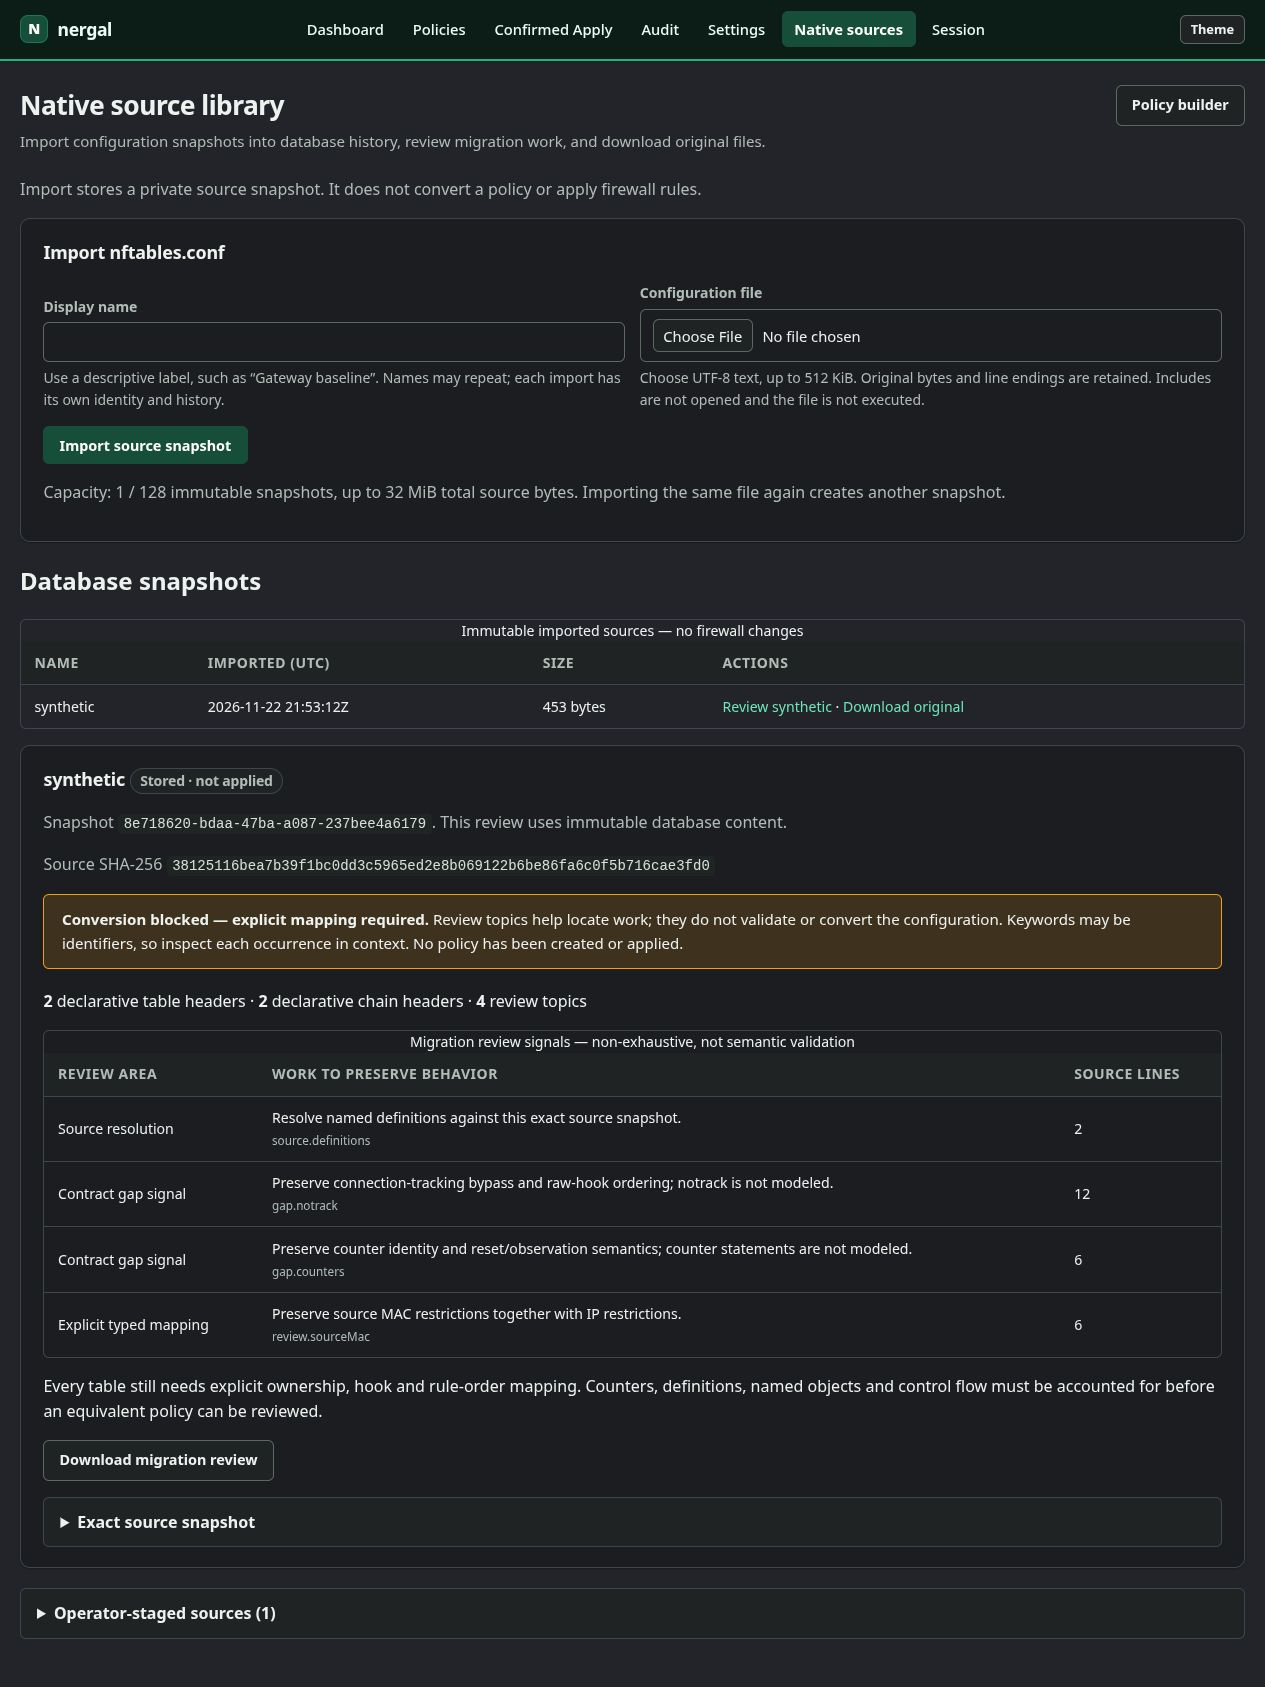
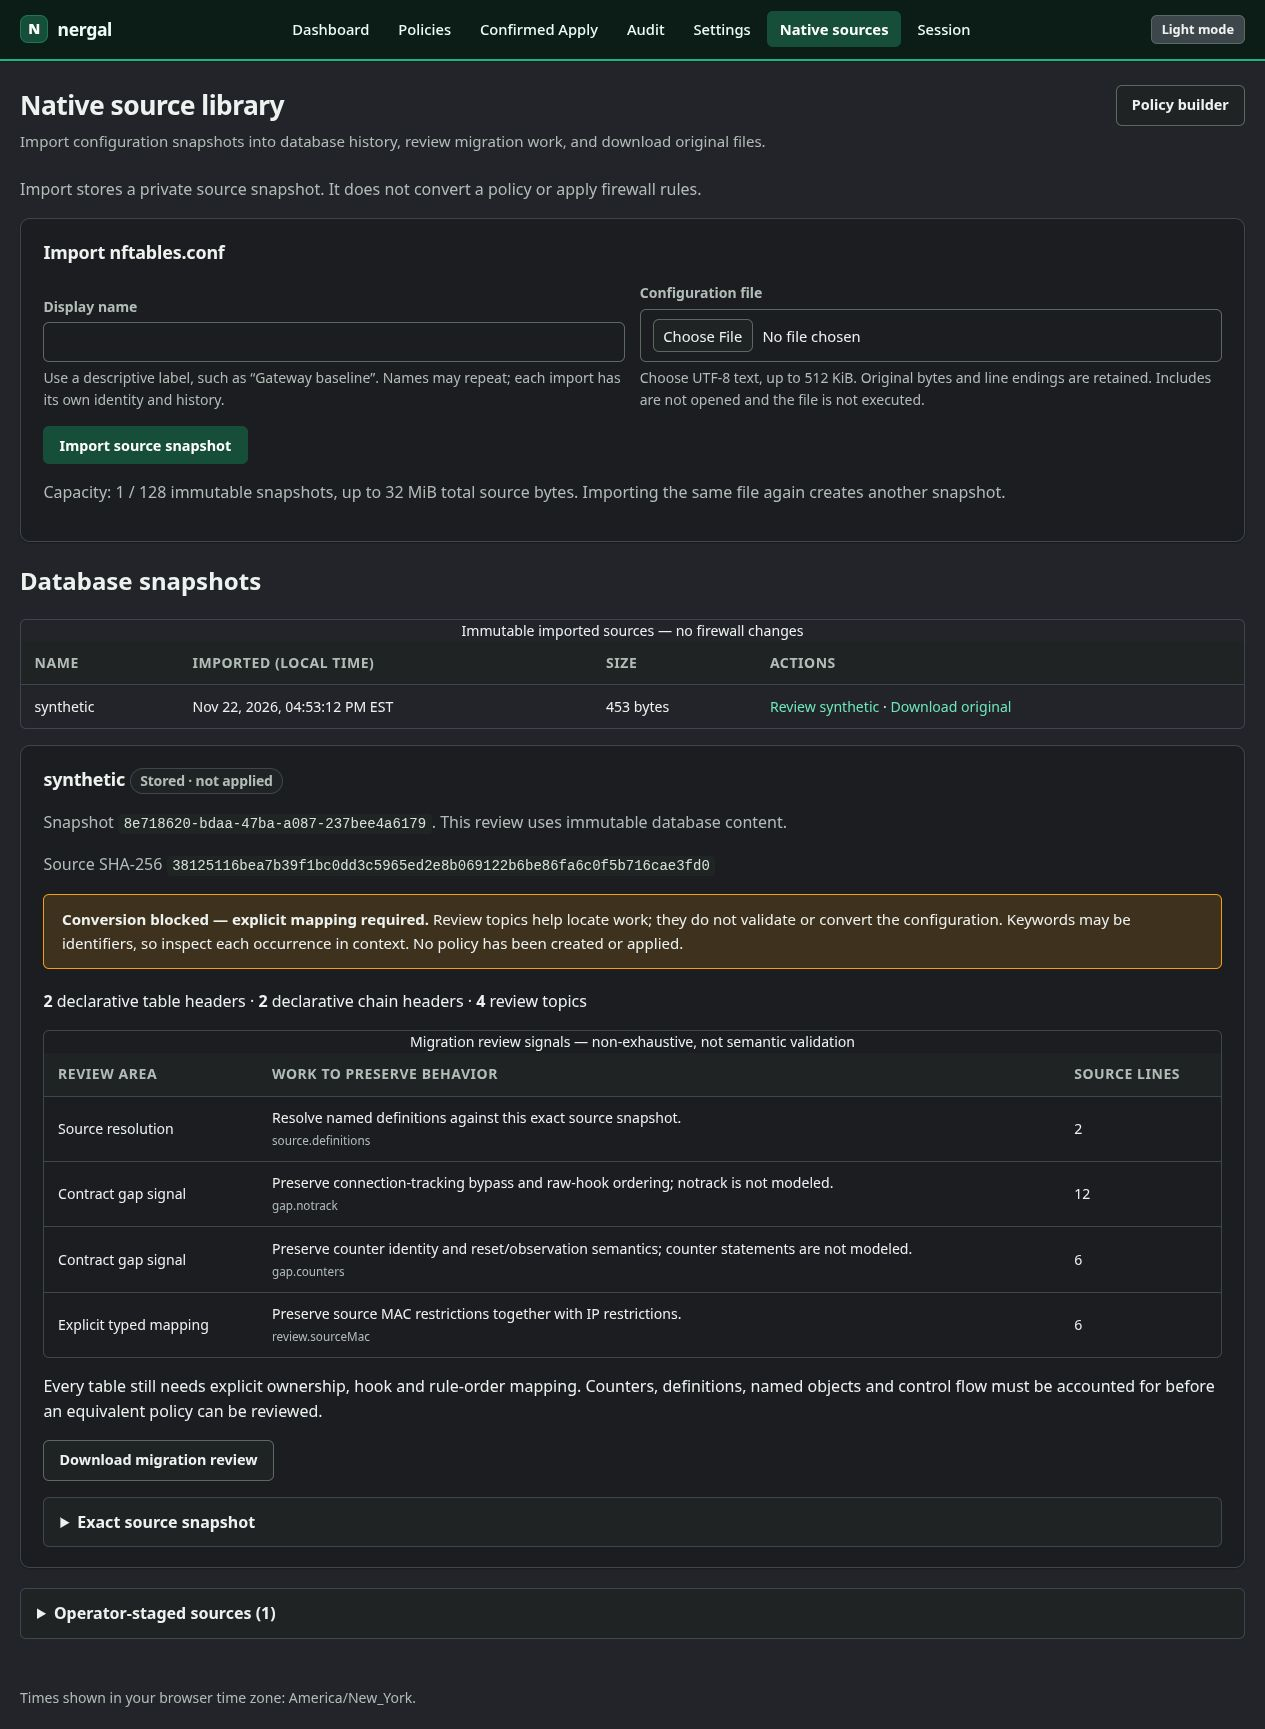
Display UTC instants in the viewer local timezone across the console

diff --git a/src/Nergal.Web/wwwroot/js/local-time.js b/src/Nergal.Web/wwwroot/js/local-time.js
@@ -1,0 +1,54 @@
+/* Stored/API instants remain UTC. Only presentation uses the viewer's locale/timezone. */
+(function () {
+  "use strict";
+  const selector = "time[data-local-time]";
+  const utcPattern = /^\d{4}-\d{2}-\d{2}T\d{2}:\d{2}:\d{2}(?:\.\d{1,7})?Z$/;
+
+  function formatter() {
+    try {
+      return new Intl.DateTimeFormat(undefined, {
+        year: "numeric", month: "short", day: "numeric",
+        hour: "2-digit", minute: "2-digit", second: "2-digit", timeZoneName: "short",
+      });
+    } catch { return null; }
+  }
+
+  function render(element, format) {
+    const instant = element.getAttribute("datetime");
+    if (!instant || instant.length > 35 || !utcPattern.test(instant)) return;
+    const date = new Date(instant);
+    // Reject normalized invalid calendar dates instead of silently changing the instant.
+    if (!Number.isFinite(date.valueOf()) || date.toISOString().slice(0, 19) !== instant.slice(0, 19)) return;
+    try {
+      const text = format.format(date);
+      if (element.textContent !== text) element.textContent = text;
+    } catch { /* Retain the explicit UTC fallback. */ }
+  }
+
+  function renderTree(root, format) {
+    if (!format) return;
+    if (root.matches?.(selector)) render(root, format);
+    root.querySelectorAll?.(selector).forEach(element => render(element, format));
+    const zone = format.resolvedOptions().timeZone;
+    if (root.matches?.("[data-local-time-zone]")) root.textContent = zone;
+    root.querySelectorAll?.("[data-local-time-zone]").forEach(element => { element.textContent = zone; });
+  }
+
+  function refresh() { renderTree(document, formatter()); }
+  refresh();
+  window.addEventListener("focus", refresh);
+  document.addEventListener("visibilitychange", () => { if (!document.hidden) refresh(); });
+  // Also handles timestamps rendered later by interactive Blazor components.
+  if (typeof MutationObserver !== "undefined") {
+    new MutationObserver(records => {
+      const format = formatter();
+      for (const record of records) {
+        if (record.type === "attributes") renderTree(record.target, format);
+        else {
+          if (record.target?.matches?.(selector)) renderTree(record.target, format);
+          for (const node of record.addedNodes) if (node.nodeType === 1) renderTree(node, format);
+        }
+      }
+    }).observe(document.documentElement, { subtree: true, childList: true, attributes: true, attributeFilter: ["datetime"] });
+  }
+})();

diff --git a/pages/assets/application.css b/pages/assets/application.css
@@ -809,3 +809,5 @@ input[type="file"]::file-selector-button {
   font: inherit;
   cursor: pointer;
 }
+
+.time-zone-note { max-width: 1280px; margin: 0 auto; padding: 0 1.25rem 1.25rem; font-size: .875rem; }

diff --git a/src/Nergal.Web/wwwroot/css/nergal.css b/src/Nergal.Web/wwwroot/css/nergal.css
@@ -809,3 +809,5 @@ input[type="file"]::file-selector-button {
   font: inherit;
   cursor: pointer;
 }
+
+.time-zone-note { max-width: 1280px; margin: 0 auto; padding: 0 1.25rem 1.25rem; font-size: .875rem; }

diff --git a/tests/Nergal.Web.Tests/NativeSourceStoreTests.cs b/tests/Nergal.Web.Tests/NativeSourceStoreTests.cs
@@ -168,6 +168,32 @@ public sealed class NativeSourceStoreTests
         });
     }
 
+    /// <summary>Offset-bearing input and clocks normalize every controller timestamp to UTC before persistence.</summary>
+    [Fact]
+    public void ControllerTimestamps_AreStoredAsUtcInstants()
+    {
+        WithStore((_, path) =>
+        {
+            var input = new DateTimeOffset(2026, 11, 23, 2, 34, 5, TimeSpan.FromMinutes(330));
+            var store = ControllerStateStore.Open(new(path), new OffsetClock(input));
+            store.RegisterHost(new(Guid.NewGuid(), "synthetic", AgentTransportKind.Unix, "/run/nergal/control.sock", expectedServerUserId: 1001, createdAtUtc: input), Actor, NergalRoles.Administrator);
+            store.SavePolicyRevision("{}", new string('a', 64), Actor, NergalRoles.Administrator);
+            store.SaveSystemSettings(SystemSettingsSnapshot.Default, Actor, NergalRoles.Administrator);
+            store.ImportNativeSource(new("synthetic", "accept"), Actor, NergalRoles.Administrator);
+            using var conn = new SqliteConnection($"Data Source={Path.Combine(path, "controller.db")};Pooling=False"); conn.Open(); using var cmd = conn.CreateCommand();
+            cmd.CommandText = "SELECT created_at_utc FROM hosts UNION ALL SELECT created_at_utc FROM policy_revisions UNION ALL SELECT updated_at_utc FROM system_settings UNION ALL SELECT imported_at_utc FROM native_sources UNION ALL SELECT timestamp_utc FROM audit_log";
+            using var reader = cmd.ExecuteReader(); var timestamps = new List<DateTimeOffset>();
+            while (reader.Read()) { timestamps.Add(DateTimeOffset.Parse(reader.GetString(0), System.Globalization.CultureInfo.InvariantCulture)); }
+            Assert.NotEmpty(timestamps);
+            Assert.All(timestamps, timestamp => { Assert.Equal(TimeSpan.Zero, timestamp.Offset); Assert.Equal(input.ToUniversalTime(), timestamp); });
+        });
+    }
+
+    private sealed class OffsetClock(DateTimeOffset instant) : TimeProvider
+    {
+        public override DateTimeOffset GetUtcNow() => instant;
+    }
+
     private static void WithStore(Action<ControllerStateStore, string> action)
     {
         if (!OperatingSystem.IsLinux()) { return; }

diff --git a/tests/integration/local-sessions/check.py b/tests/integration/local-sessions/check.py
@@ -244,6 +244,8 @@ def exercise(temp):
         database_only_html = browser.request("/manage/sources?sourceId=" + source_id, 200)
         assert "Operator-staged sources" not in database_only_html
         assert "synthetic" in database_only_html and "immutable database content" in database_only_html
+        assert 'data-local-time datetime="' in database_only_html and 'Stored UTC:' in database_only_html
+        assert "Imported (local time)" in database_only_html and "browser time zone" in database_only_html
         browser.request("/session", 200)
         browser.request("/logout", 302, {"__RequestVerificationToken": browser.token("/session")})
         browser.cookies[ADMIN] = session

diff --git a/docs/time-display.md b/docs/time-display.md
@@ -1,0 +1,26 @@
+# Timestamp storage and display
+
+Application timestamps are stored as UTC instants. Controller host creation,
+policy revisions, settings updates, native imports and audit records normalize
+incoming offsets before persistence. API timestamps and machine-readable HTML
+`datetime` attributes remain UTC; presentation does not rewrite stored values.
+
+Management screens display timestamps in the viewer's browser locale and timezone,
+including a timezone indication. The shared MVC time partial and Blazor component
+emit the original UTC instant, and the local formatter enhances its visible text.
+This covers dashboard/apply audit rows, audit history, revision history and native
+source imports. The footer names the browser's IANA timezone. Returning to the page
+refreshes presentation if the system timezone changed.
+
+Daylight-saving transitions use the offset applicable to the stored instant, not
+the current offset. Repeated autumn hours retain timezone abbreviations. The UTC
+instant remains available in the timestamp tooltip for correlation. Missing Intl,
+invalid input or JavaScript-disabled operation retains explicitly labeled UTC;
+the server timezone is never silently used as the viewer's timezone.
+
+`node --test scripts/local-time.test.mjs` checks date boundaries, spring/autumn DST,
+half-hour and southern-hemisphere offsets, malformed/ambiguous input, fallback,
+interactive component updates and changed viewer timezone using real Intl data.
+SQLite tests inject an offset-bearing clock and verify UTC persistence across all
+controller timestamp fields. No timezone-specific database migration is needed for
+the existing normalized UTC records. This does not change monotonic apply deadlines.

diff --git a/pages/router-migration-and-sandbox.md b/pages/router-migration-and-sandbox.md
@@ -157,11 +157,11 @@ line references using the application theme. The screenshots below use a synthet
 configuration only. Private server sources and reports are never published here.
 The review table scrolls within its container on narrow screens.
 
-![Source-bound migration review in dark mode](assets/screenshots/migration-review-dark.jpg)
+![Source-bound migration review in dark mode](assets/screenshots/source-library-dark.jpg)
 
-![Source-bound migration review in light mode](assets/screenshots/migration-review-light.jpg)
+![Source-bound migration review in light mode](assets/screenshots/source-library-light.jpg)
 
-![Source-bound migration review on mobile](assets/screenshots/migration-review-mobile.jpg)
+![Source-bound migration review on mobile](assets/screenshots/source-library-mobile.jpg)
 
 ## Planned reusable objects and file workflows
 
@@ -201,3 +201,7 @@ supported SQL backends are deferred until the logical schema stabilizes; each
 engine will require versioned upgrade and failure/recovery tests. Saved backend
 settings are not evidence of an implemented adapter. Bootstrap trust and protected
 key material retain explicit security boundaries.
+
+Application timestamps remain stored in UTC. Dashboard, audit, revision and source
+views display the viewer's browser-local time with a timezone indication; the
+original UTC instant remains in the tooltip and machine-readable metadata.

diff --git a/docs/testing.md b/docs/testing.md
@@ -408,3 +408,13 @@ CSRF, invalid UTF-8, maximum valid file size, request/file size rejection and
 anonymous/Auditor boundaries. The admin fixture checks explicit idempotent schema
 upgrade and unknown-version denial. These checks add no native firewall operation;
 conversion equivalence and generated export remain unverified/unimplemented.
+
+### Local timestamp presentation
+
+`node --test scripts/local-time.test.mjs` uses real Intl timezone data for date
+boundaries, both DST transitions, half-hour/southern offsets and unchanged UTC
+attributes. It checks invalid or offset-less input, unavailable Intl, interactive
+component updates and system-timezone changes. Controller SQLite tests verify UTC
+persistence even with offset-bearing input/clocks. HTTPS checks assert UTC instant
+markup and local-display labels; browser QA verifies rendered values and the named
+viewer timezone. Server-local time is never the display default.

diff --git a/pages/native-source-library.md b/pages/native-source-library.md
@@ -6,7 +6,8 @@ file; field hints explain the limits. Uploads do not execute nft, resolve includ
 create managed policies or change firewall rules.
 
 Each import receives an independent identity, attributed audit event, UTC time,
-exact byte length and SHA-256. Repeated names or identical contents remain separate
+exact byte length and SHA-256. Times are stored in UTC and displayed in the
+viewer's browser timezone, named in the page footer; the tooltip retains UTC. Repeated names or identical contents remain separate
 snapshots. Select **Review** for one source's exact text and non-exhaustive migration
 review. **Download original** returns its exact bytes, including BOM and line endings,
 as `nftables.conf`. The JSON review download uses the stored source identity.

diff --git a/docs/native-source-library.md b/docs/native-source-library.md
@@ -8,7 +8,8 @@ and an attributed audit entry atomically; it never executes nft, resolves includ
 creates a managed policy or changes a firewall.
 
 Each import has an independent identity, even when names or contents repeat. The
-metadata list shows import time and size. Select **Review** for one source's exact
+metadata list shows import time in the viewer's local timezone and size. Timestamps
+remain stored in UTC, with the original instant available in the tooltip. Select **Review** for one source's exact
 content, digest and non-exhaustive lexical migration review. **Download original**
 returns its exact UTF-8 bytes, including BOM and line endings, as an attachment
 named `nftables.conf`. Reports select a stored source by identity, not a server path

diff --git a/pages/release-notes.md b/pages/release-notes.md
@@ -38,3 +38,11 @@ Imports and their audit records are atomic; no configuration is executed or
 converted. Existing controllers require an explicit offline `controller upgrade`.
 Additional SQL providers and semantic/generated-policy import/export remain future
 work. See [the source library guide](native-source-library.md).
+
+## Local timestamp display (unreleased)
+
+Dashboard/apply audit rows, audit/revision history and native source imports now
+render stored UTC instants in the viewer's browser timezone and locale. The page
+names that timezone and each timestamp retains its original UTC instant. DST uses
+the offset applicable to the event. Explicit UTC remains the fallback without
+JavaScript/Intl. Database and API timestamps remain UTC.

diff --git a/docs/product-workflow.md b/docs/product-workflow.md
@@ -84,6 +84,9 @@ must persist validated changes transactionally. Exports and generated configurat
 are derived artifacts of an explicitly selected database revision; local files,
 browser state and build artifacts must not become competing canonical stores.
 Preserve immutable revisions and enough change history to review and recover state.
+Store timestamps in UTC; display instants in the viewer's browser timezone with a
+clear timezone indication. APIs and exports retain UTC instants. See [timestamp
+presentation](time-display.md).
 
 Keep desired, dispatched, confirmed and observed state distinct. A database edit
 must not imply that a policy is active in the kernel. Store observations with their
